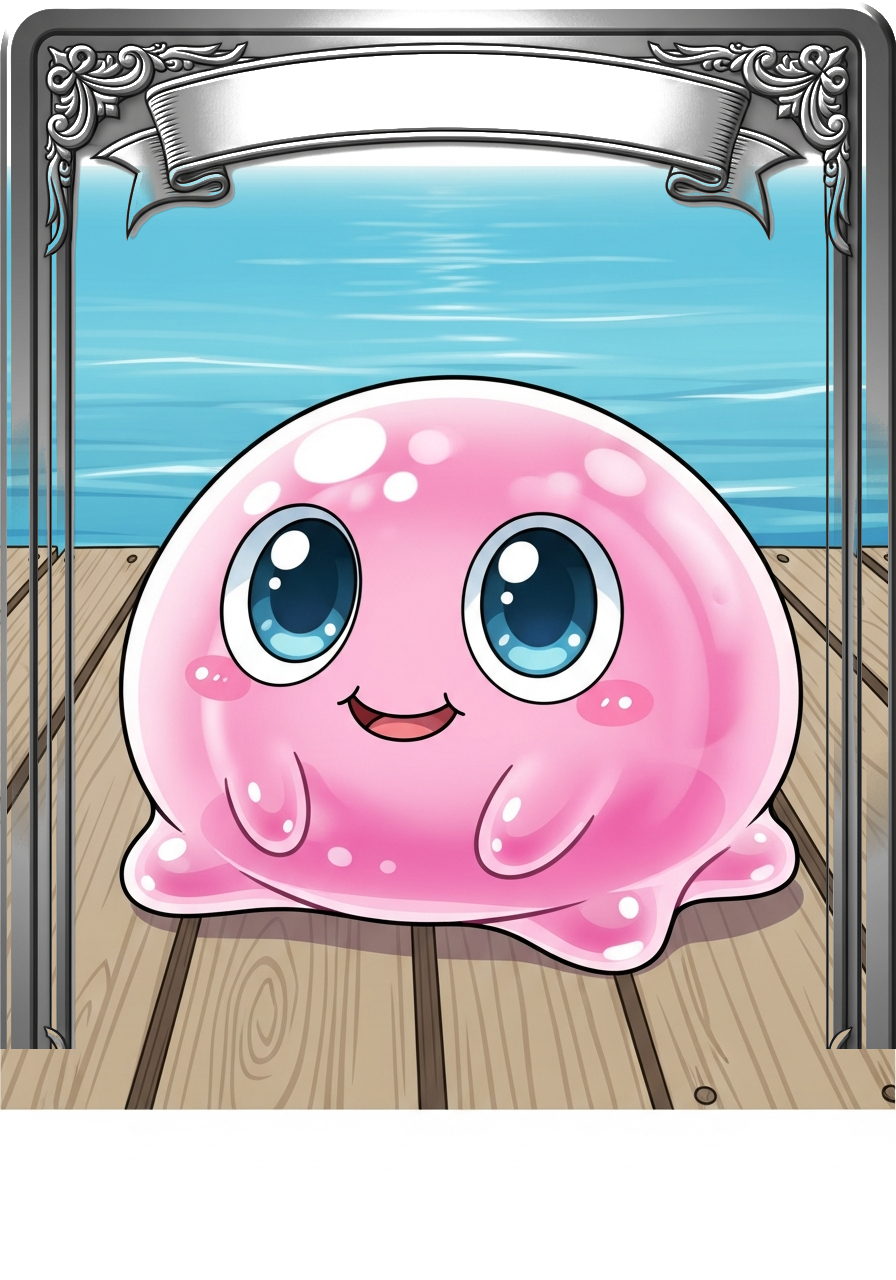
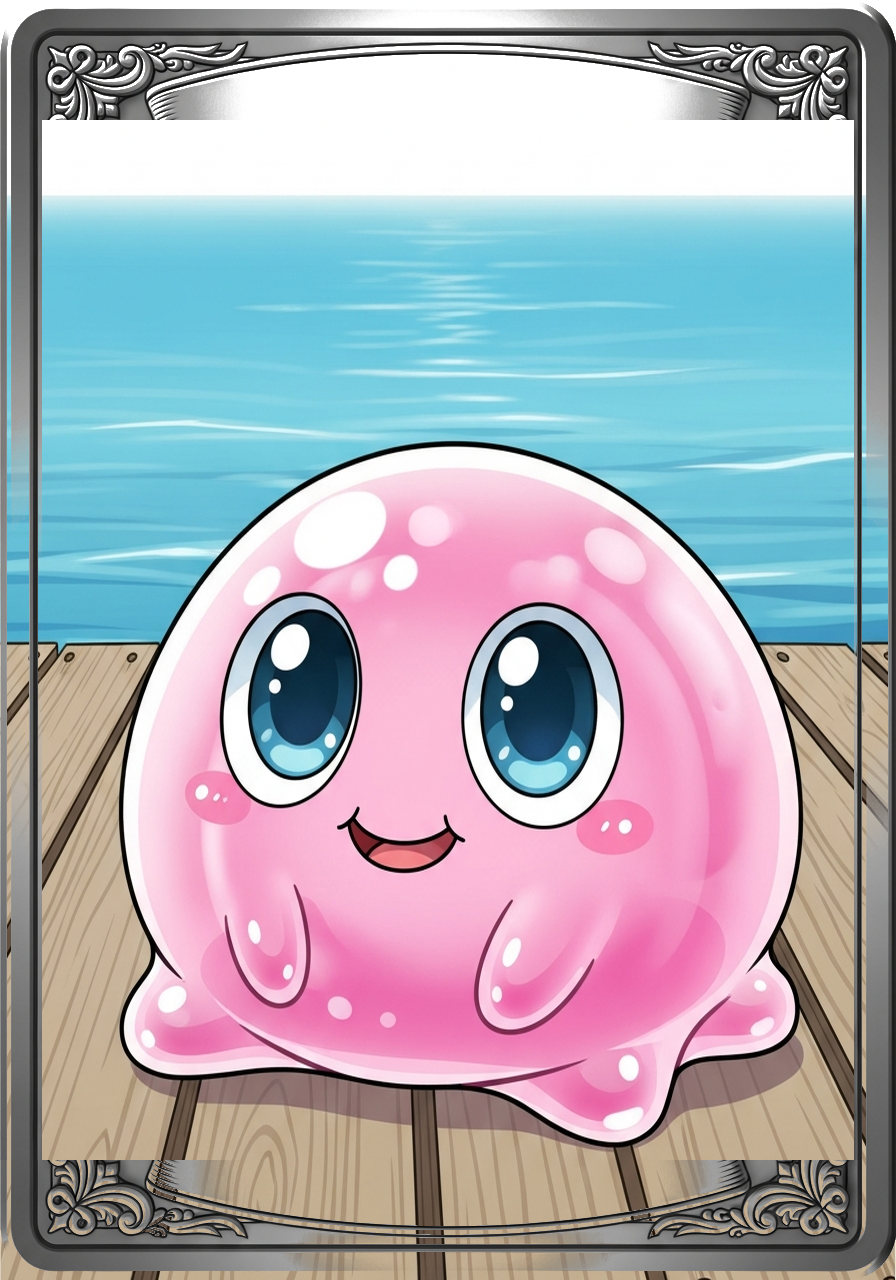
カード表示改善: 名前オーバーレイ削除 + 上下対称枠 + 白帯除去
- カード画像から名前オーバーレイを削除(ゲーム側の既存表示に任せる)
- frame_clean.png: 上部装飾を下にもミラーコピーした上下対称枠
- プリン画像の下部白バナーをクロップして絵柄全面表示
- compose_card.pyをframe_clean.png対応に

diff --git a/stage.html b/stage.html
@@ -2241,12 +2241,7 @@ function renderCard(card, opts) {
   } else {
     const cardImg = CARD_IMAGES[card.id];
     if(cardImg) {
-      const nameFs = size === 'thumb' ? 7 : size === 'large' ? 16 : 10;
-      inner.innerHTML =
-        '<div style="position:relative;width:100%;height:100%;border-radius:10px;overflow:hidden;">' +
-          '<img src="' + cardImg + '" style="width:106%;height:106%;object-fit:cover;margin:-3% 0 0 -3%;" alt="' + card.name + '">' +
-          '<div style="position:absolute;top:4%;left:50%;transform:translateX(-50%);font-size:'+nameFs+'px;font-weight:900;color:#444;font-family:var(--font-ui);text-shadow:0 1px 2px rgba(255,255,255,0.8);letter-spacing:1px;white-space:nowrap;">' + card.name + '</div>' +
-        '</div>';
+      inner.innerHTML = '<img src="' + cardImg + '" style="width:100%;height:100%;object-fit:cover;border-radius:10px;" alt="' + card.name + '">';
       el.style.border = 'none';
       el.style.boxShadow = '0 4px 12px rgba(0,0,0,0.15)';
     } else {
